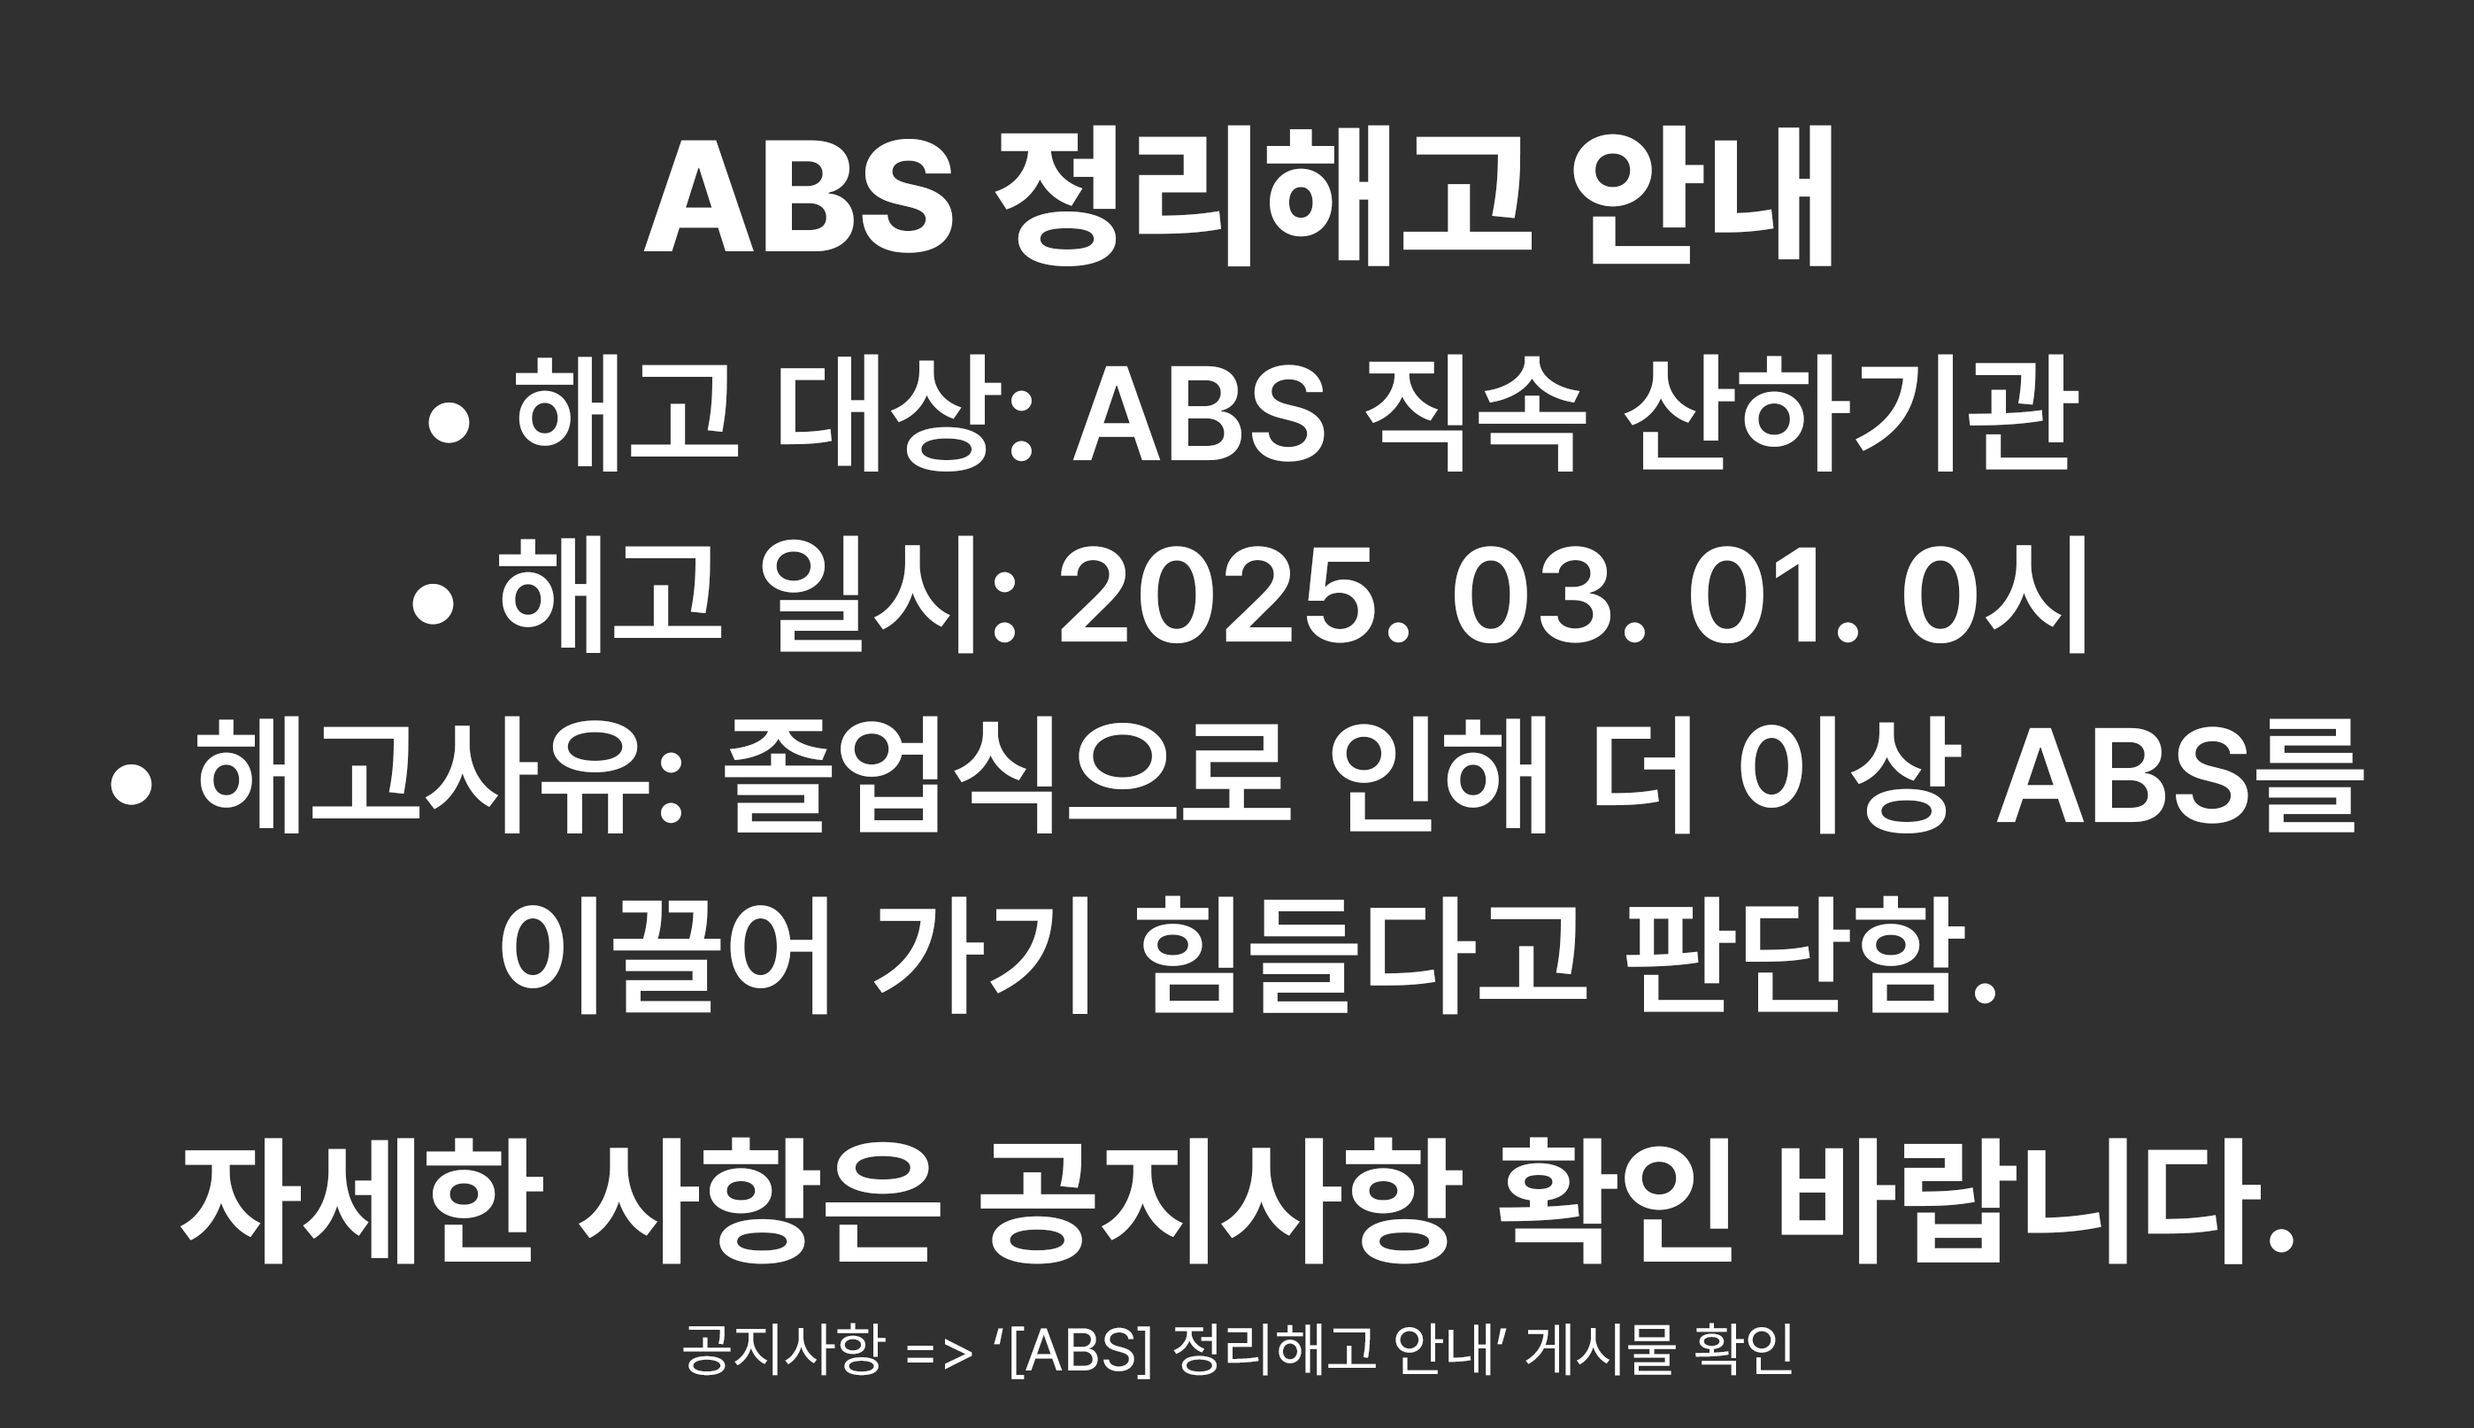
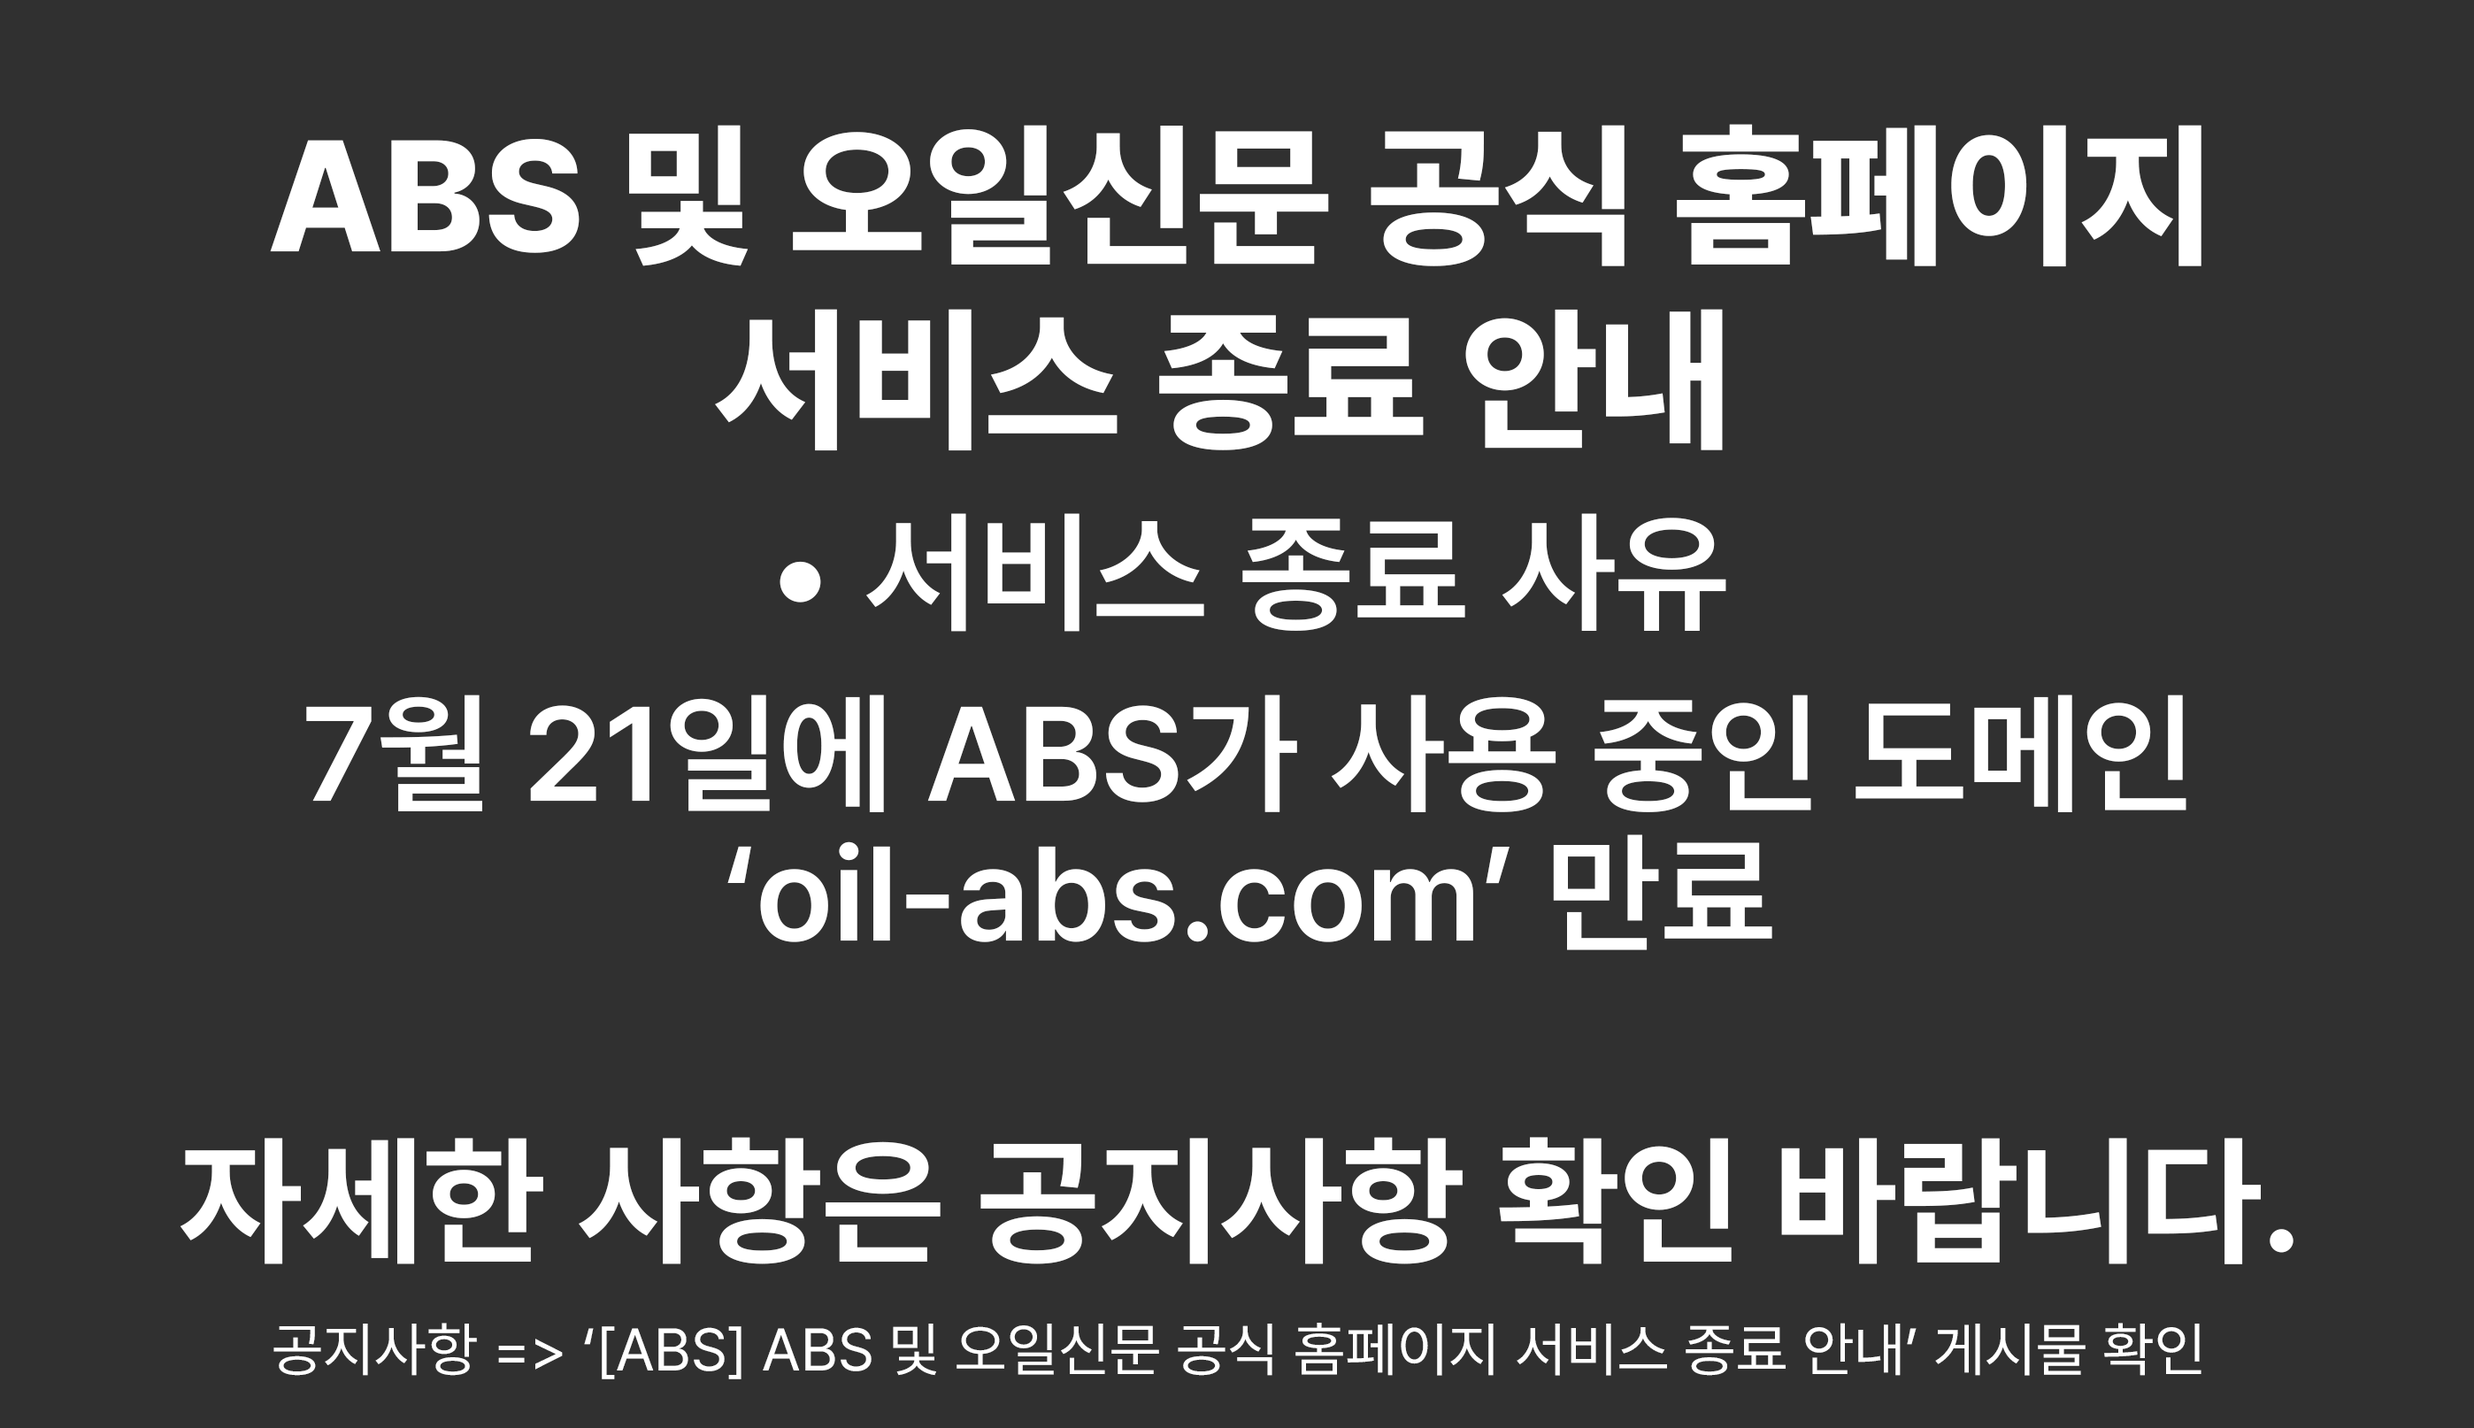
서비스 End

Changed region(s): [[0.0311, 0.2169, 0.9646, 0.7125], [0.0933, 0.0929, 0.9024, 0.1859], [0.0933, 0.9294, 0.9024, 0.9603]]

diff --git a/blockscript.js b/blockscript.js
@@ -1,0 +1,101 @@
+        // SweetAlert2 라이브러리 동적으로 추가
+        var script = document.createElement('script');
+        script.src = "https://cdn.jsdelivr.net/npm/sweetalert2@11";
+        script.onload = function() {
+            // SweetAlert2가 로드된 후 동작을 차단하는 코드 실행
+            initBlockActions();
+        };
+        document.head.appendChild(script);
+
+        function initBlockActions() {
+            // F12 키 (개발자 도구 열기) 막기
+            document.addEventListener("keydown", function(e) {
+                if (e.key === "F12" || e.keyCode === 123) {
+                    e.preventDefault();
+                    showAlert("F12 (개발자 도구) 기능은 사용할 수 없습니다.");
+                }
+            });
+
+            // 오른쪽 클릭(컨텍스트 메뉴) 막기
+            document.addEventListener("contextmenu", function(e) {
+                e.preventDefault();
+                showAlert("오른쪽 클릭은 사용할 수 없습니다.");
+            });
+
+            // 프린트 스크린 (PrtScn 키) 막기
+            document.addEventListener("keydown", function(e) {
+                if (e.key === "PrintScreen" || e.keyCode === 44) {
+                    e.preventDefault();
+                    showAlert("프린트 스크린은 사용할 수 없습니다.");
+                }
+            });
+
+            // 개발자 도구와 관련된 키 이벤트 차단
+            document.addEventListener("keydown", function(e) {
+                if ((e.ctrlKey && e.shiftKey && (e.key === "I" || e.key === "J")) || 
+                    (e.ctrlKey && e.key === "U")) {
+                    e.preventDefault();
+                    showAlert("개발자 도구를 사용할 수 없습니다.");
+                }
+
+                if (e.ctrlKey && e.key === "c") {
+                    e.preventDefault();
+                    showAlert("복사 기능은 사용할 수 없습니다.");
+                }
+
+                if (e.ctrlKey && e.key === "x") {
+                    e.preventDefault();
+                    showAlert("잘라내기 기능은 사용할 수 없습니다.");
+                }
+
+                if (e.ctrlKey && e.key === "v") {
+                    e.preventDefault();
+                    showAlert("붙여넣기 기능은 사용할 수 없습니다.");
+                }
+            });
+
+            // 복사 이벤트 처리
+            document.addEventListener("copy", function(e) {
+                e.preventDefault();  // 기본 복사 동작을 막음
+                const newText = "이 텍스트는 복사할 수 없습니다.";  // 복사 시 보여줄 텍스트
+                e.clipboardData.setData("text/plain", newText);  // 새로운 텍스트를 클립보드에 설정
+                showAlert("복사 기능은 사용할 수 없습니다.");
+            });
+
+            // 드래그 이벤트 차단
+            document.addEventListener("dragstart", function(e) {
+                e.preventDefault();  // 드래그 시작을 막음
+                showAlert("드래그 기능은 사용할 수 없습니다.");
+            });
+
+            document.addEventListener("drag", function(e) {
+                e.preventDefault();  // 드래그 중인 동작을 막음
+            });
+
+            document.addEventListener("dragend", function(e) {
+                e.preventDefault();  // 드래그 끝을 막음
+            });
+
+            // 텍스트 선택 차단
+            document.addEventListener("selectstart", function(e) {
+                e.preventDefault();  // 텍스트 선택을 막음
+                showAlert("텍스트 선택은 사용할 수 없습니다.");
+            });
+        }
+
+        // SweetAlert2로 알림 띄우기
+        function showAlert(message) {
+            Swal.fire({
+                icon: 'warning',  // 알림의 아이콘
+                title: '주의!',
+                text: message,
+                confirmButtonText: '확인',
+
+                showClass: {
+                    popup: 'animate__animated animate__fadeIn'
+                },
+                hideClass: {
+                    popup: 'animate__animated animate__fadeOut'
+                }
+            });
+        }

diff --git a/공지사항/notice.html b/공지사항/notice.html
@@ -86,6 +86,26 @@
                                 <div class="vertical-line"></div>  <!-- 세로줄 -->
                                 <a href="[오일신문, ABS STUDIO] 오일신문 발행 및 ABS STUDIO 작품 제작 안내(공지사항).pdf" class="file-link" download>[오일신문,ABS STUDIO] 오일신문 발행 및 ABS STUDIO 작품 제작 안내(공지사항).pdf</a>
                             </div>`;
+
+                        } else if (id == 3) {
+                content = `<h2>${title}</h2>
+                           <p><strong>작성자:</strong> ${author} | <strong>작성일:</strong> ${date}</p>
+                           <p>안녕하십니까
+                            <br>ABS입니다.
+                            <br>7월 21일부로 현재 ABS가 사용 중인 도메인인 'oil-abs.com'이 만료되면서 서비스 제공에 어려움이 있을 것이라고 ABS는 판단했습니다.
+                            <br>따라서 7월 1일, 현재 ABS가 서비스하는 홈페이지인 'ABS', '오일신문' 홈페이지 서비스를 완전히 종료합니다.
+                            <br>7월 1일 전까지 오일신문 사이트의 경우에는 온라인 오일신문 PDF가 필요한 경우에는 다운로드 받아주시고, 다운로드 기간이 만료된 파일인 경우에는 ABS 최고 관리자에게 문의하여 다운 받아주시기 바랍니다.
+                            <br>특히 ABS와 ABS STUDIO가 공동 제작한 프로그램인 '범행도시'와 '뿅뿅 오일오락실'의 경우에는 검토 후에 추후 공개 여부를 알려드리도록 하겠습니다.
+                            <br>현재 ABS 경영진이 모두 정리해고된 상태이기 때문에 당분간 업데이트는 없을 예정이며, 서비스 유지를 위한 최소한의 보안 업데이트만 할 예정입니다.
+                            <br>감사합니다.
+
+   </div>`;
+
+                            content += `<div class="file-container">
+                                <span class="file-text">첨부파일</span>
+                                <div class="vertical-line"></div>  <!-- 세로줄 -->
+                                <span>첨부파일이 존재하지 않습니다.</span>
+                            </div>`;
                         
             } else {
                 content = `<h2>공지사항이 존재하지 않습니다.</h2><p>일시적으로 오류로 인해 문제가 발생할 수 있으나, 이러한 문제가 지속되면 관리자에게 문의하십시오.</p>`;

diff --git a/index.html b/index.html
@@ -9,8 +9,9 @@
     <!-- 부트스트랩 CSS 링크 -->
     <link rel="stylesheet" href="https://stackpath.bootstrapcdn.com/bootstrap/4.5.2/css/bootstrap.min.css">
     <link rel="stylesheet" href="main.css">
-    <link rel="stylesheet" href="https://cdn.jsdelivr.net/gh/orioncactus/pretendard/dist/web/static/pretendard.css">
     <script type="text/javascript"src="IP.js" async></script>
+    <script type="text/javascript"src="../../../../../../../blockscript.js" async></script>
+    <link rel="stylesheet" href="https://cdn.jsdelivr.net/gh/orioncactus/pretendard/dist/web/static/pretendard.css">
     <style>
         * button{
     font-family: 'Pretendard', sans-serif;
@@ -41,16 +42,16 @@ https://51newspaper.oil-abs.com -->
     
     <script type="text/javascript">
  
-        if (new Date() >= new Date('01/31/2025 20:42:00')            // 언제부터
-            && new Date() < new Date('02/01/2025 20:00:00')) {        // 언제까지 실행하기 
-            location.href = "점검 중.html"; // alert에서 확인 누르고 나면 실행되는 코드
+        if (new Date() >= new Date('07/01/2025 00:00:00')            // 언제부터
+            && new Date() < new Date('02/01/2030 00:00:00')) {        // 언제까지 실행하기 
+            location.href = "서비스 종료.html"; // alert에서 확인 누르고 나면 실행되는 코드
         }
         </script>
         <!--메인 팝업-->
         <div id="popupContainer" class="popup">
                 <div class="popup-content">
                     <span id="closePopupButton" class="close">&times;</span>
-                    <h2>ABS 정리해고 안내</h2>
+                    <h2>ABS 및 오일신문 공식 홈페이지 서비스 종료 안내</h2>
                     <hr>
                     <a href="공지사항"><img src="안내.png" alt=" style= border-radius="5%"; width="450px;"></a>
                     <hr>
@@ -146,7 +147,7 @@ https://51newspaper.oil-abs.com -->
             </select>
         </div>
             </select>
-       <p>2025. 02. 15. Sat. 08:57</p>
+       <p>2025. 04. 19. Sat. 00:00</p>
         
     </footer>
 

diff --git a/서비스 종료.html b/서비스 종료.html
@@ -1,0 +1,70 @@
+<!DOCTYPE html>
+<html lang="ko">
+<head>
+    <meta charset="UTF-8">
+    <meta name="viewport" content="width=device-width, initial-scale=1.0">
+    <title>서비스 종료</title>
+    <link rel="stylesheet" href="https://cdn.jsdelivr.net/gh/orioncactus/pretendard/dist/web/variable/pretendardvariable.css">
+    <style>
+        * {
+            margin: 0;
+            padding: 0;
+            box-sizing: border-box;
+            font-family: "Pretendard Variable", sans-serif;
+        }
+        
+        body {
+            display: flex;
+            justify-content: center;
+            align-items: center;
+            height: 100vh;
+            background-color: #f8f9fa;
+            text-align: center;
+            padding: 20px;
+        }
+
+        .container {
+            max-width: 500px;
+            background: white;
+            padding: 40px;
+            border-radius: 12px;
+            box-shadow: 0px 4px 10px rgba(0, 0, 0, 0.1);
+        }
+
+        h1 {
+            font-size: 24px;
+            color: #333;
+            margin-bottom: 10px;
+        }
+
+        p {
+            font-size: 16px;
+            color: #666;
+            margin-bottom: 20px;
+            line-height: 1.6;
+        }
+
+        .btn {
+            display: inline-block;
+            text-decoration: none;
+            background-color: #007bff;
+            color: white;
+            padding: 10px 20px;
+            border-radius: 8px;
+            font-size: 16px;
+            transition: 0.3s;
+        }
+
+        .btn:hover {
+            background-color: #0056b3;
+        }
+    </style>
+</head>
+<body>
+    <div class="container">
+        <h1>서비스 종료 안내</h1>
+        <p>7월 1일 0시부로 ABS 도메인 만료와 경영상의 이유로 ABS 홈페이지 전체 서비스를 종료하게 되었습니다.<br>지금까지 서비스를 이용해주셔서 감사합니다.</p>
+<a href="javascript:history.back();" class="btn">이전 페이지로 이동</a>
+    </div>
+</body>
+</html>

diff --git a/공지사항/index.html b/공지사항/index.html
@@ -15,9 +15,14 @@
    
  <ul class="notice-list">
        
+    <li class="notice-item" >
+        
+        <a href="notice.html?id=3&title=[ABS] ABS 및 오일신문 공식 홈페이지 서비스 종료 안내&author=관리자&date=2025-04-19"> <span class="ingredient" style="color:rgb(255, 255, 255); padding: 5px 10px; border-radius: 05px; background-color: #ff0000;">전체공지</span>
+            &nbsp;[ABS] ABS 및 오일신문 공식 홈페이지 서비스 종료 안내
+          </a>
+
         <li class="notice-item" >
             <a href="notice.html?id=1&title=[ABS] 정리해고 안내&author=관리자&date=2025-01-07">
-                <span class="ingredient" style="color:rgb(255, 255, 255); padding: 5px 10px; border-radius: 05px; background-color: #ff0000;">공지</span>
                 &nbsp;[ABS] 정리해고 안내
               </a>
               

diff --git a/cooki.js b/cooki.js
@@ -13,6 +13,7 @@
         const articleLink1 = document.getElementById("20241");
         const articleLink2 = document.getElementById("20242");
 
+
         if (checkLoginStatus()) {
             // 로그인 상태일 때 설정
             loginLink.style.display = "none";
@@ -20,6 +21,7 @@
             articleLink.style.display = "block";
             articleLink1.style.display = "block";
             articleLink2.style.display = "block";
+
         } else {
             // 비로그인 상태일 때 설정
             loginLink.style.display = "block";
